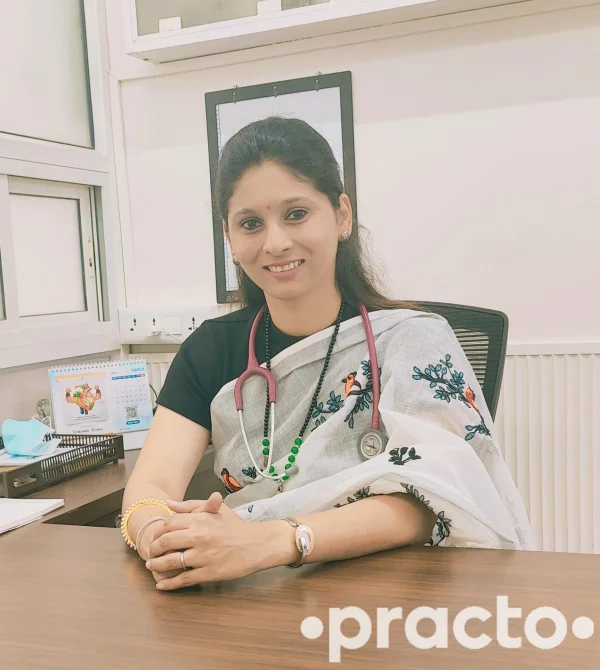
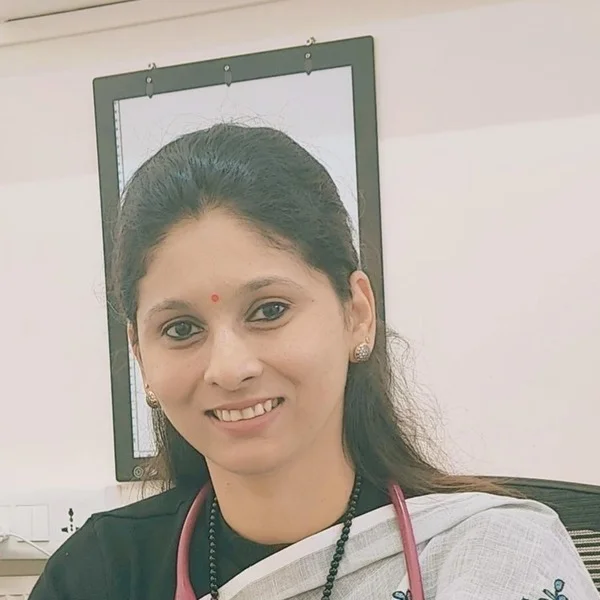
Fix Dr. Yogini's doctor-card photo crop
The previous crop barely trimmed the tall source photo, so the whole
office scene got squeezed into the small circular avatar instead of
her face. Re-cropped to a tight 600x600 headshot (face + shoulders,
clear of the desk and the source photo's watermark) and dropped the
now-unneeded object-position hack in CSS.

diff --git a/css/style.css b/css/style.css
@@ -334,7 +334,7 @@ a { color: var(--sky-dark); }
   color: var(--navy);
 }
 .doctor-photo svg { width: 52px; height: 52px; }
-.doctor-photo img { width: 100%; height: 100%; object-fit: cover; object-position: center 15%; }
+.doctor-photo img { width: 100%; height: 100%; object-fit: cover; display: block; }
 .doctor-name { margin: 0 0 4px; font-size: 1.3rem; }
 .doctor-cred { font-weight: 600; color: var(--sky-dark); margin: 0 0 6px; font-size: 0.92rem; }
 .doctor-reg { font-size: 0.82rem; color: var(--muted); margin: 0 0 12px; }
